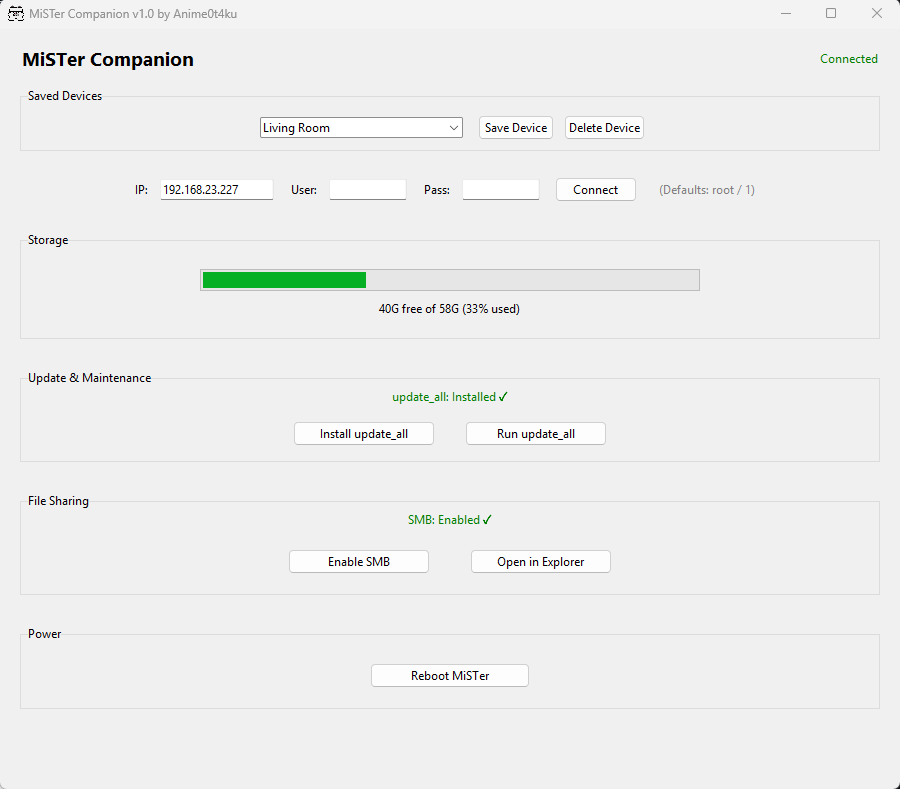
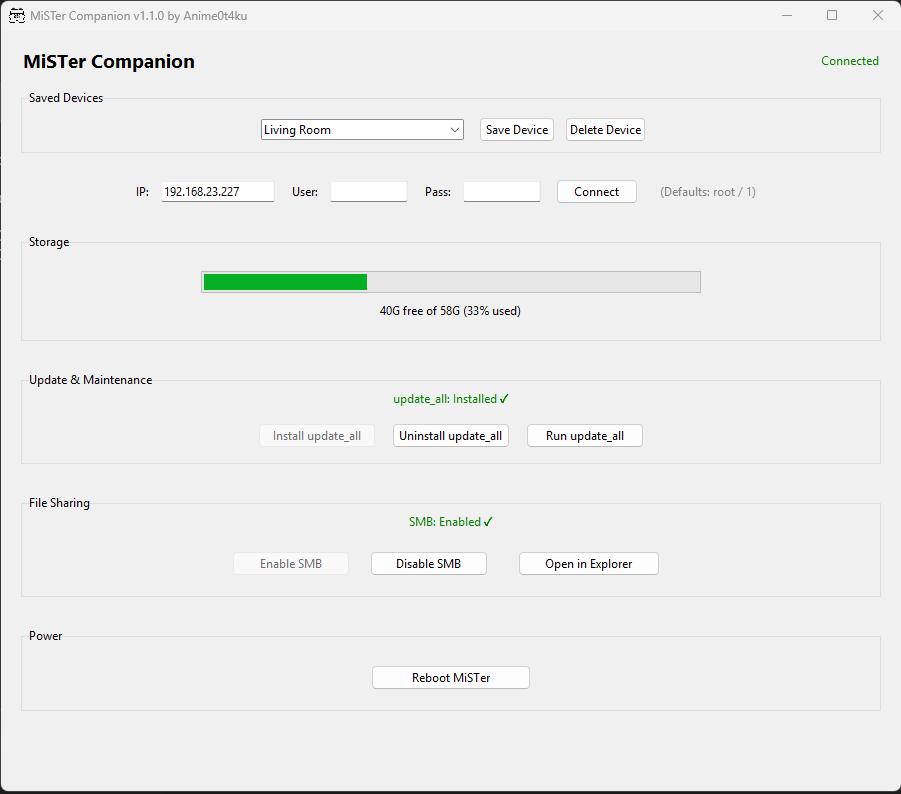
v1.1.0
Improvements

Added automatic button state management for update_all and SMB

“Run update_all” is now disabled when not installed

Install and Uninstall buttons dynamically enable/disable based on actual system state

Enable/Disable SMB buttons now correctly reflect MiSTer status

Improved UI behavior after connecting

diff --git a/mister-companion/mister-companion.py b/mister-companion/mister-companion.py
@@ -124,7 +124,7 @@ class MiSTerApp:
 
     def __init__(self, root):
         self.root = root
-        self.root.title("MiSTer Companion v1.0.1 by Anime0t4ku")
+        self.root.title("MiSTer Companion v1.1.0 by Anime0t4ku")
         self.root.geometry("900x760")
 
         # ===== App Icon =====
@@ -337,15 +337,21 @@ class MiSTerApp:
 
         self.install_button = ttk.Button(button_row,
                                          text="Install update_all",
-                                         width=22,
+                                         width=18,
                                          command=self.install_update_all)
-        self.install_button.pack(side="left", padx=15)
+        self.install_button.pack(side="left", padx=8)
+
+        self.uninstall_button = ttk.Button(button_row,
+                                           text="Uninstall update_all",
+                                           width=18,
+                                           command=self.uninstall_update_all)
+        self.uninstall_button.pack(side="left", padx=8)
 
         self.run_button = ttk.Button(button_row,
                                      text="Run update_all",
-                                     width=22,
+                                     width=18,
                                      command=self.run_update_all)
-        self.run_button.pack(side="left", padx=15)
+        self.run_button.pack(side="left", padx=8)
 
         self.console_frame = ttk.Frame(maintenance_frame)
 
@@ -377,11 +383,17 @@ class MiSTerApp:
         files_inner = ttk.Frame(files_frame)
         files_inner.pack(pady=20)
 
-        self.smb_button = ttk.Button(files_inner,
-                                     text="Enable SMB",
-                                     width=22,
-                                     command=self.enable_smb)
-        self.smb_button.pack(side="left", padx=20)
+        self.enable_smb_button = ttk.Button(files_inner,
+                                            text="Enable SMB",
+                                            width=18,
+                                            command=self.enable_smb)
+        self.enable_smb_button.pack(side="left", padx=10)
+
+        self.disable_smb_button = ttk.Button(files_inner,
+                                             text="Disable SMB",
+                                             width=18,
+                                             command=self.disable_smb)
+        self.disable_smb_button.pack(side="left", padx=10)
 
         self.explorer_button = ttk.Button(files_inner,
                                           text="Open in Explorer",
@@ -484,16 +496,16 @@ class MiSTerApp:
             messagebox.showerror("Connection Error", message)
 
     def enable_controls(self):
-        self.install_button.config(state="normal")
         self.run_button.config(state="normal")
-        self.smb_button.config(state="normal")
         self.explorer_button.config(state="normal")
         self.reboot_button.config(state="normal")
 
     def disable_controls(self):
         self.install_button.config(state="disabled")
+        self.uninstall_button.config(state="disabled")
         self.run_button.config(state="disabled")
-        self.smb_button.config(state="disabled")
+        self.enable_smb_button.config(state="disabled")
+        self.disable_smb_button.config(state="disabled")
         self.explorer_button.config(state="disabled")
         self.reboot_button.config(state="disabled")
 
@@ -544,7 +556,10 @@ class MiSTerApp:
         update_check = self.connection.run_command(
             "test -f /media/fat/Scripts/update_all.sh && echo EXISTS"
         )
-        if "EXISTS" in (update_check or ""):
+
+        update_installed = "EXISTS" in (update_check or "")
+
+        if update_installed:
             self.update_status_label.config(
                 text="update_all: Installed ✓",
                 foreground="green"
@@ -558,7 +573,10 @@ class MiSTerApp:
         smb_check = self.connection.run_command(
             "test -f /media/fat/linux/samba.sh && echo EXISTS"
         )
-        if "EXISTS" in (smb_check or ""):
+
+        smb_enabled = "EXISTS" in (smb_check or "")
+
+        if smb_enabled:
             self.smb_status_label.config(
                 text="SMB: Enabled ✓",
                 foreground="green"
@@ -568,6 +586,54 @@ class MiSTerApp:
                 text="SMB: Disabled",
                 foreground="red"
             )
+
+        self.update_button_states(update_installed, smb_enabled)
+
+    def update_button_states(self, update_installed=False, smb_enabled=False):
+
+        # update_all buttons
+        if update_installed:
+            self.install_button.config(state="disabled")
+            self.uninstall_button.config(state="normal")
+            self.run_button.config(state="normal")
+        else:
+            self.install_button.config(state="normal")
+            self.uninstall_button.config(state="disabled")
+            self.run_button.config(state="disabled")
+
+        # SMB buttons
+        if smb_enabled:
+            self.enable_smb_button.config(state="disabled")
+            self.disable_smb_button.config(state="normal")
+        else:
+            self.enable_smb_button.config(state="normal")
+            self.disable_smb_button.config(state="disabled")
+
+    def uninstall_update_all(self):
+        if not self.connection.connected:
+            return
+
+        if messagebox.askyesno("Uninstall update_all",
+                               "Are you sure you want to remove update_all?"):
+            self.connection.run_command(
+                "rm -f /media/fat/Scripts/update_all.sh"
+            )
+            self.check_services_status()
+
+
+    def disable_smb(self):
+        if not self.connection.connected:
+            return
+
+        self.connection.run_command(
+            "if [ -f /media/fat/linux/samba.sh ]; then mv /media/fat/linux/samba.sh /media/fat/linux/_samba.sh; fi"
+        )
+
+        if messagebox.askyesno("SMB Disabled",
+                               "SMB has been disabled.\n\nA reboot is required.\n\nReboot now?"):
+            self.reboot()
+
+        self.check_services_status()
 
     def toggle_console(self):
         if self.console_visible:
